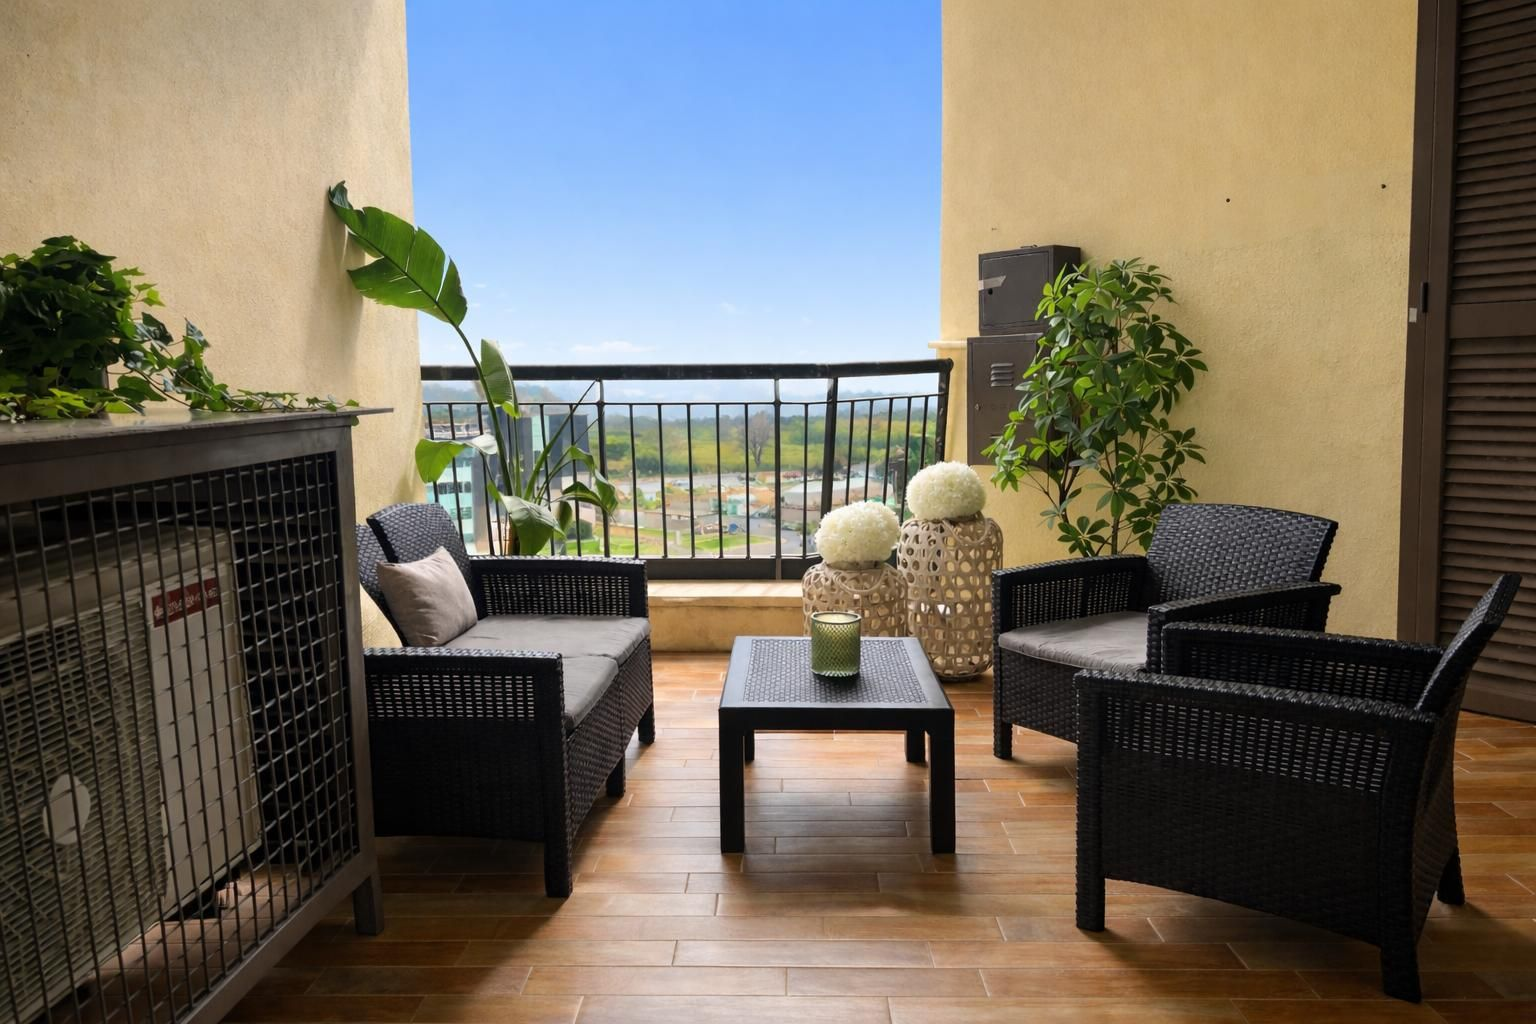
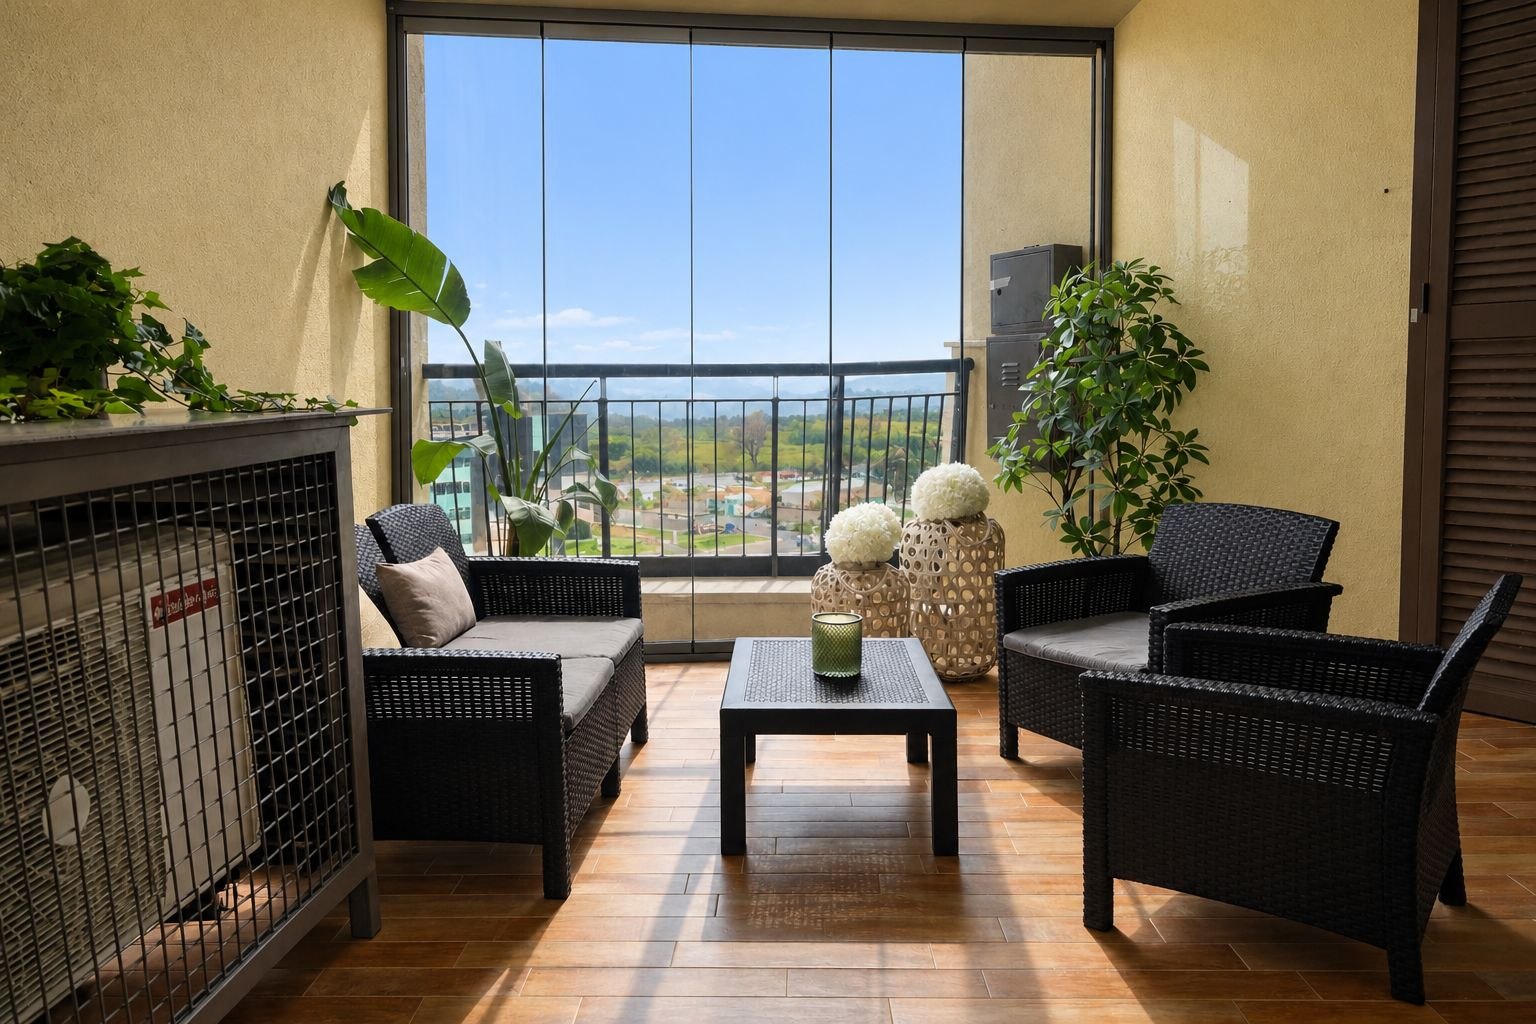
Botticelli: nuova foto 'dopo' del balcone
Claude-Session: https://claude.ai/code/session_01Bvn71NShyh76c8txYLHMM4

diff --git a/index.html b/index.html
@@ -757,7 +757,7 @@ footer .wrap{display:flex;justify-content:space-between;gap:20px;flex-wrap:wrap;
    ========================================================= */
 const CONFIG = {
   // cambia questo numero quando sostituisci una foto con lo stesso nome (forza il browser a ricaricarla)
-  versioneFoto: "3",
+  versioneFoto: "4",
   // Video di Roma in apertura (Pexels, gratuito). Se vuoi usare il tuo: "img/roma.mp4"
   heroVideo: "https://videos.pexels.com/video-files/29947195/12852219_2560_1440_30fps.mp4",
   heroImage: "https://images.pexels.com/videos/29947195/central-rome-citta-del-vaticano-classic-italy-daybreak-29947195.jpeg?auto=compress&w=1920",  // mostrata mentre il video carica
